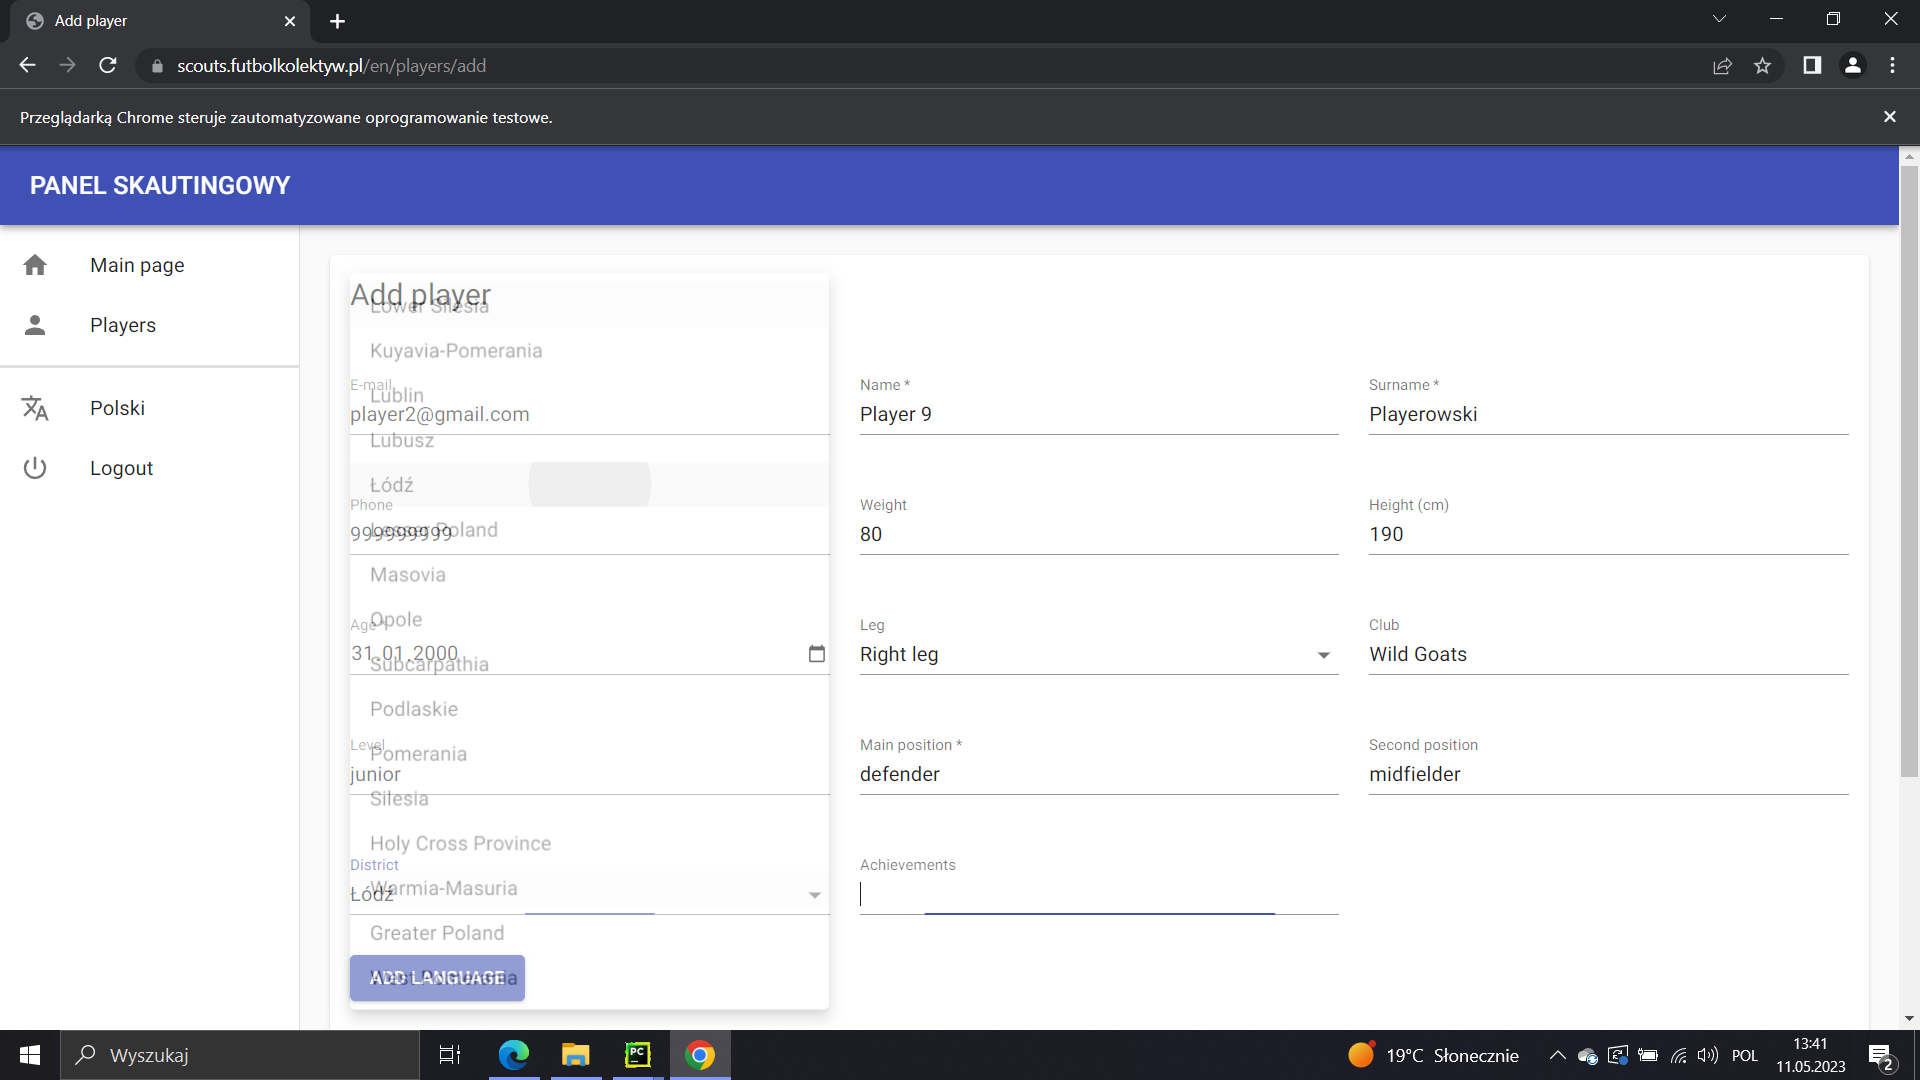
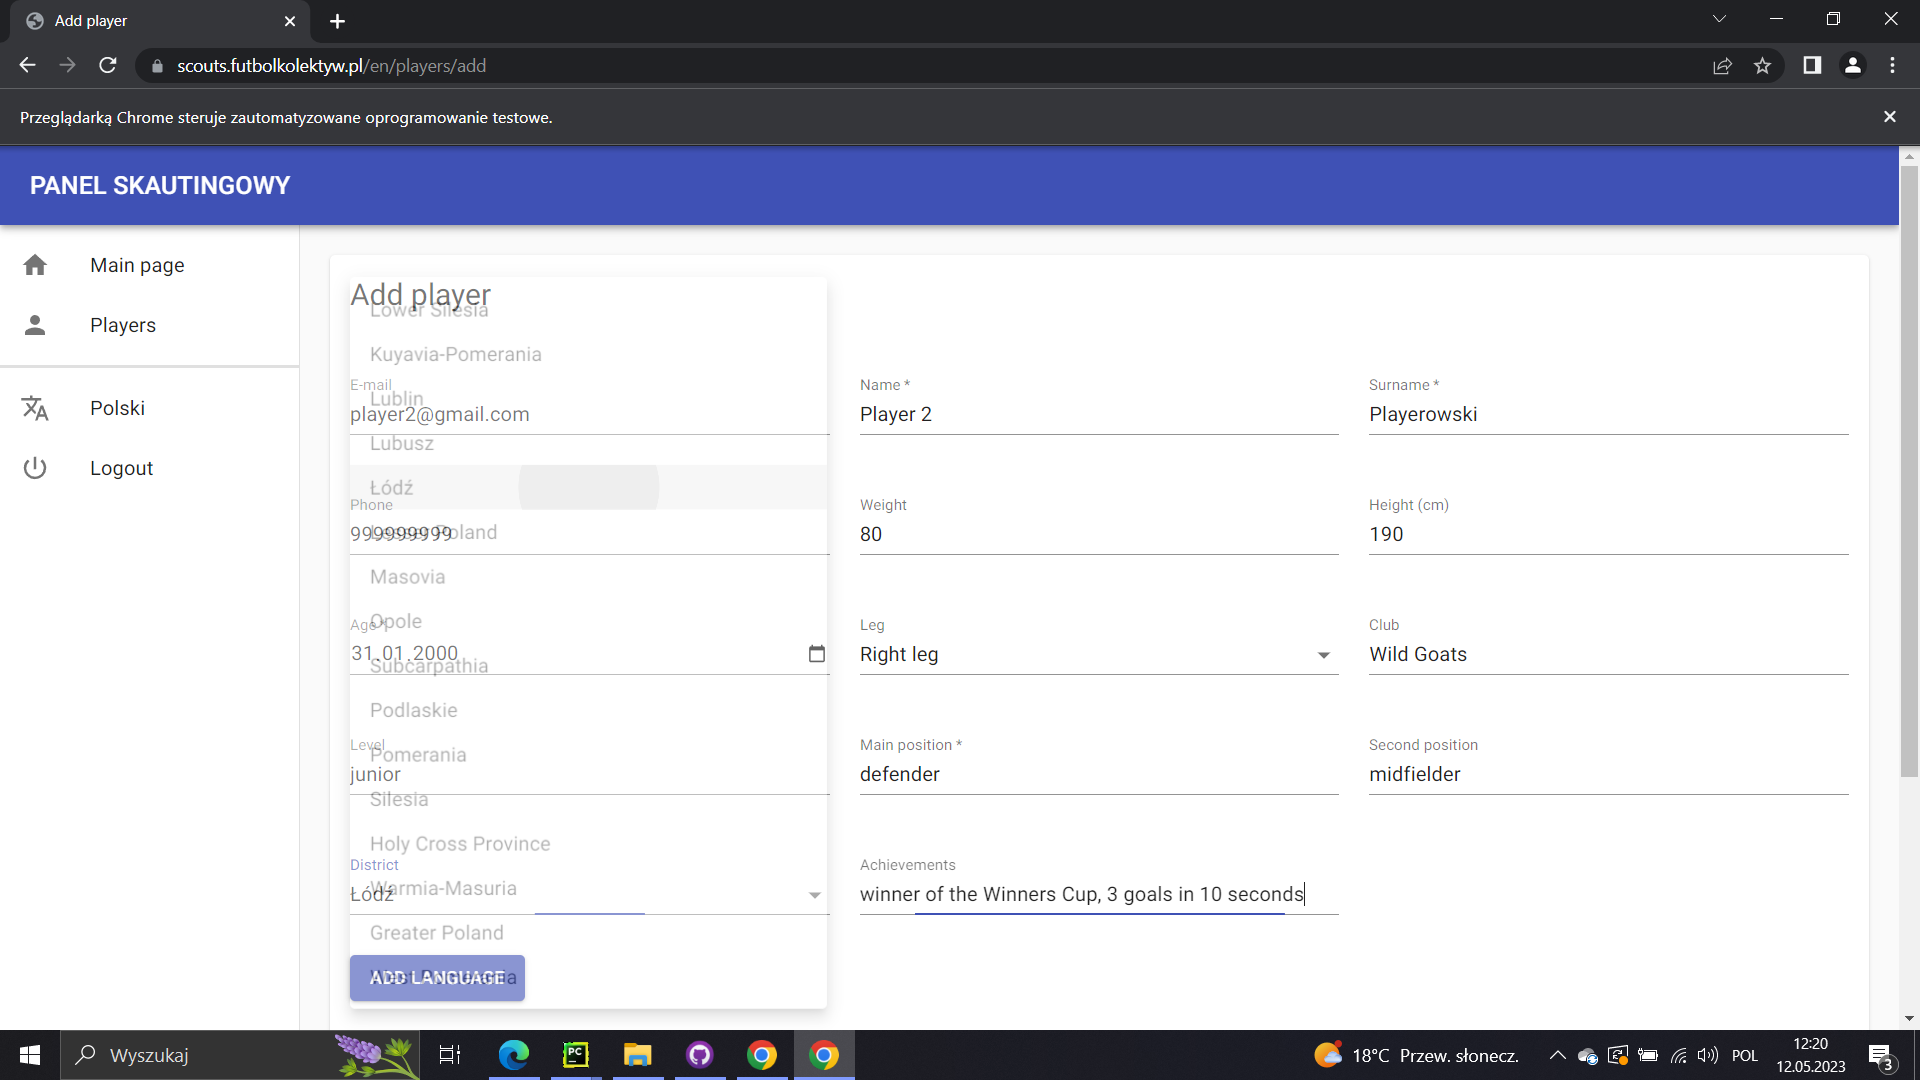
changes 2

diff --git a/pages/add_a_player_form.py b/pages/add_a_player_form.py
@@ -23,7 +23,7 @@ class AddPlayerForm(BasePage):
     leg_select_menu_xpath = '//*[@id="mui-component-select-leg"]'
     right_leg_option_xpath = "//*[@id='menu-leg']/div[3]/ul/li[1]"
     left_leg_option_xpath = "//*[@id='menu-leg']/div[3]/ul/li[2]"
-    expected_leg = "Right"
+    expected_leg = "Right leg"
     club_field_xpath = "//div[9]/div/div/input"
     expected_club = "Wild Goats"
     level_field_xpath = "//div[10]/div/div/input"
@@ -42,6 +42,10 @@ class AddPlayerForm(BasePage):
     expected_language = "english"
     second_language_field_xpath = "//div[15]/div[2]/div/div/input"
     expected_second_language = "japanese"
+    laczy_nas_pilka_field_xpath = "//div[16]/div/div/input"
+    expected_laczy_nas_pilka_link = "https://laczynaspilka.com/player"
+    minut_field_xpath = "//div[17]/div/div/input"
+    expected_minut_link = "https://90minut.com/player"
     add_youtube_link_button_xpath = "//div[19]/button/span[1]"
     expected_youtube_link = "https://www.youtube.com/watch?v=gDgFXMKA6QU"
     youtube_field_xpath = "//*[@name='webYT[0]']"
@@ -49,6 +53,8 @@ class AddPlayerForm(BasePage):
     expected_facebook_link = "https://facebook.com"
     submit_button_xpath = "//div[3]/button[1]/span[1]"
     edit_player_title_xpath = "//form/div[1]/div/span"
+    required_field_message_xpath = "//div[11]/div/p"
+    expected_required_field_message = "Required"
 
     def title_of_page(self):
         assert self.get_page_title(self.add_player_form_url) == self.expected_title
@@ -112,6 +118,12 @@ class AddPlayerForm(BasePage):
     def type_in_second_language(self, language):
         self.field_send_keys(self.second_language_field_xpath, language)
 
+    def type_in_laczy_nas_pilka_link(self, link):
+        self.field_send_keys(self.laczy_nas_pilka_field_xpath, link)
+
+    def type_in_minute_link(self, link):
+        self.field_send_keys(self.minut_field_xpath, link)
+
     def click_on_the_add_youtube_link_button(self):
         self.click_on_the_element(self. add_youtube_link_button_xpath)
 
@@ -132,59 +144,65 @@ class AddPlayerForm(BasePage):
         else:
             self.click_on_the_element(self.left_leg_option_xpath)
 
+
     def assert_name(self):
         self.longer_wait_for_element_to_be_clickable(self.surname_field_xpath)
-        self.find_element(self.name_field_xpath)
-        assert self.name_field_xpath == self.expected_name
+        self.assert_input_text(self.driver, self.name_field_xpath, self.expected_name)
 
     def assert_surname(self):
-        self.assert_element_text(self.driver, self.surname_field_xpath, self.expected_surname)
+        self.assert_input_text(self.driver, self.surname_field_xpath, self.expected_surname)
 
     def assert_email(self):
-        self.assert_element_text(self.driver, self.email_field_xpath, self.expected_email)
+        self.assert_input_text(self.driver, self.email_field_xpath, self.expected_email)
 
     def assert_phone(self):
-        self.assert_element_text(self.driver, self.phone_field_xpath, self.expected_phone_number)
+        self.assert_input_text(self.driver, self.phone_field_xpath, self.expected_phone_number)
 
     def assert_weight(self):
-        self.assert_element_text(self.driver, self.weight_field_xpath, self.expected_weight)
+        self.assert_input_text(self.driver, self.weight_field_xpath, self.expected_weight)
 
     def assert_height(self):
-        self.assert_element_text(self.driver, self.height_field_xpath, self.expected_height)
+        self.assert_input_text(self.driver, self.height_field_xpath, self.expected_height)
 
     def assert_date_of_birth(self):
-        self.assert_element_text(self.driver, self.date_of_birth_field_xpath, self.expected_date_of_birth)
+        self.assert_input_text(self.driver, self.date_of_birth_field_xpath, self.expected_date_of_birth)
 
     def assert_leg(self):
         self.assert_element_text(self.driver, self.leg_select_menu_xpath, self.expected_leg)
 
     def assert_club(self):
-        self.assert_element_text(self.driver, self.club_field_xpath, self.expected_club)
+        self.assert_input_text(self.driver, self.club_field_xpath, self.expected_club)
 
     def assert_level(self):
-        self.assert_element_text(self.driver, self.level_field_xpath, self.expected_level)
+        self.assert_input_text(self.driver, self.level_field_xpath, self.expected_level)
 
     def assert_main_position(self):
-        self.assert_element_text(self.driver, self.main_position_field_xpath, self.expected_main_position)
+        self.assert_input_text(self.driver, self.main_position_field_xpath, self.expected_main_position)
 
     def assert_second_position(self):
-        self.assert_element_text(self.driver, self.second_position_field_xpath, self.expected_second_position)
+        self.assert_input_text(self.driver, self.second_position_field_xpath, self.expected_second_position)
 
     def assert_district(self):
-        self.assert_element_text(self.driver, self.lodz_district_option_xpath, self.expected_district)
+        self.assert_element_text(self.driver, self.district_select_menu_field_xpath, self.expected_district)
 
     def assert_achievements(self):
-        self.assert_element_text(self.driver, self.achievements_field_xpath, self.expected_achievements)
+        self.assert_input_text(self.driver, self.achievements_field_xpath, self.expected_achievements)
 
     def assert_language(self):
-        self.assert_element_text(self.driver, self.language_field_xpath, self.expected_language)
+        self.assert_input_text(self.driver, self.language_field_xpath, self.expected_language)
 
     def assert_second_language(self):
-        self.assert_element_text(self.driver, self.second_language_field_xpath, self.expected_second_language)
+        self.assert_input_text(self.driver, self.second_language_field_xpath, self.expected_second_language)
+
+    def assert_laczynaspilka_link(self):
+        self.assert_input_text(self.driver, self.laczy_nas_pilka_field_xpath, self.expected_laczy_nas_pilka_link)
+
+    def assert_minut_link(self):
+        self.assert_input_text(self.driver, self.minut_field_xpath, self.expected_minut_link)
 
     def assert_youtube(self):
-        self.assert_element_text(self.driver, self.youtube_field_xpath, self.expected_youtube_link)
+        self.assert_input_text(self.driver, self.youtube_field_xpath, self.expected_youtube_link)
 
     def assert_facebook(self):
-        self.assert_element_text(self.driver, self.facebook_field_xpath, self.expected_facebook_link)
+        self.assert_input_text(self.driver, self.facebook_field_xpath, self.expected_facebook_link)
 

diff --git a/test_cases/adding_new_player.py b/test_cases/adding_new_player.py
@@ -33,7 +33,7 @@ class TestAddPlayerForm(unittest.TestCase):
         add_player_form = AddPlayerForm(self.driver)
         add_player_form.title_of_page()
         add_player_form.type_in_email('player2@gmail.com')
-        add_player_form.type_in_name('Player 9')
+        add_player_form.type_in_name('Player 2')
         add_player_form.type_in_surname('Playerowski')
         add_player_form.type_in_phone('999999999')
         add_player_form.type_in_weight('80')
@@ -46,9 +46,7 @@ class TestAddPlayerForm(unittest.TestCase):
         add_player_form.type_in_main_position('defender')
         add_player_form.type_in_second_position('midfielder')
         add_player_form.click_on_the_district_select_menu()
-
         add_player_form.click_on_the_lodz_district_option()
-
         add_player_form.type_in_achievements('winner of the Winners Cup, 3 goals in 10 seconds')
 
         var_shot = pyautogui.screenshot()
@@ -58,6 +56,8 @@ class TestAddPlayerForm(unittest.TestCase):
         add_player_form.type_in_language('english')
         add_player_form.click_on_the_add_language_button()
         add_player_form.type_in_second_language('japanese')
+        add_player_form.type_in_laczy_nas_pilka_link('https://laczynaspilka.com/player')
+        add_player_form.type_in_minute_link('https://90minut.com/player')
         add_player_form.click_on_the_add_youtube_link_button()
         add_player_form.type_in_youtube_link('https://www.youtube.com/watch?v=gDgFXMKA6QU')
         add_player_form.type_in_facebook_link('https://facebook.com')
@@ -65,7 +65,7 @@ class TestAddPlayerForm(unittest.TestCase):
 
 
         var_shot = pyautogui.screenshot()
-       # var_shot.save('C:/Users/mofyp/GitHub/challenge_automated_testing/TC03-2.png')
+        var_shot.save('C:/Users/mofyp/GitHub/challenge_automated_testing/TC03-2.png')
 
         add_player_form = AddPlayerForm(self.driver)
         add_player_form.assert_name()
@@ -83,6 +83,8 @@ class TestAddPlayerForm(unittest.TestCase):
         add_player_form.assert_district()
         add_player_form.assert_language()
         add_player_form.assert_second_language()
+        add_player_form.assert_laczynaspilka_link()
+        add_player_form.assert_minut_link()
         add_player_form.assert_youtube()
         add_player_form.assert_facebook()
 

diff --git a/pages/base_page.py b/pages/base_page.py
@@ -1,7 +1,7 @@
 import time
 import unittest
 
-
+from selenium.webdriver.chrome import webdriver
 from selenium.webdriver.common.by import By
 from selenium.webdriver.remote.webdriver import WebDriver
 from selenium.webdriver.support import expected_conditions as EC
@@ -37,6 +37,11 @@ class BasePage():
         element_text = element.text
         assert expected_text == element_text
 
+    def assert_input_text(self, driver, xpath, expected_text):
+        element = driver.find_element(by=By.XPATH, value=xpath)
+        element_text = element.get_attribute("value")
+        assert expected_text == element_text
+
     def wait_for_element_to_be_clickable(self, locator, locator_type=DEFAULT_LOCATOR_TYPE):
         wait = WebDriverWait(self.driver, 10)
         element = wait.until(EC.element_to_be_clickable((locator_type, locator)))
@@ -47,5 +52,6 @@ class BasePage():
         element = wait.until(EC.element_to_be_clickable((locator_type, locator)))
         time.sleep(10)
 
-    def find_element(self, selector, selector_type=By.XPATH):
-        return self.driver.find_element(selector_type, selector)
+
+
+
